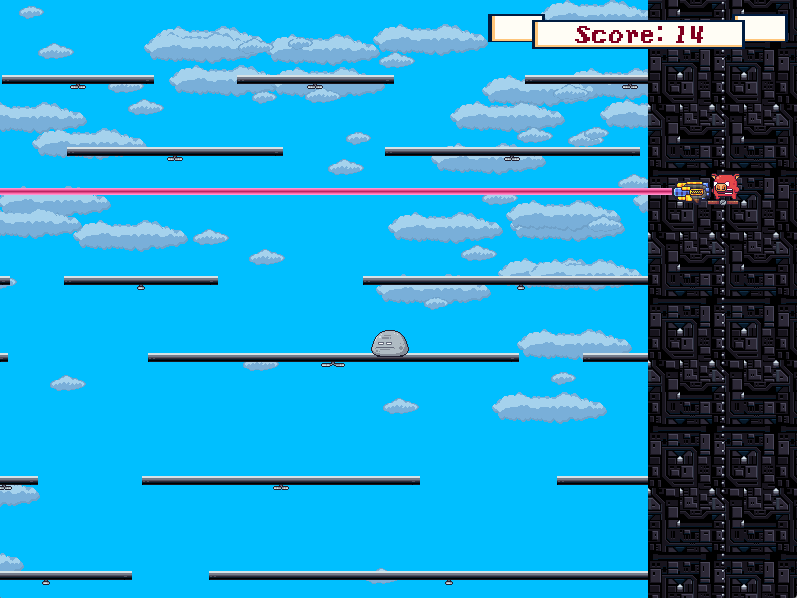
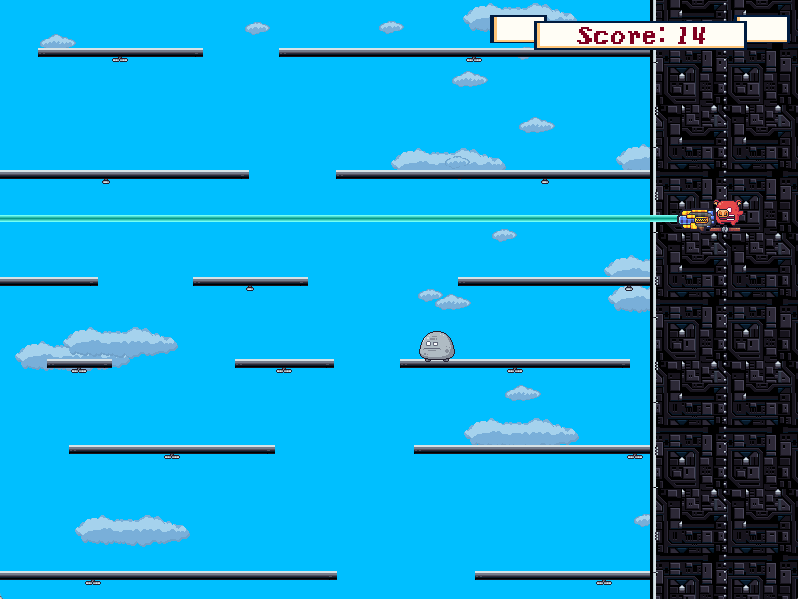
Added a border-out; added build number

diff --git a/src/main/python/game/sprites/Border.py b/src/main/python/game/sprites/Border.py
@@ -36,10 +36,14 @@ class Border(pygame.sprite.Sprite):
         self.camera_borders = self.game_data.game_config.get('camera.borders')
         self.border_color = self.game_data.game_config.get('border.color')
         self.border_size = self.game_data.game_config.get('level.border.img.size')
+        self.border_out_size = self.game_data.game_config.get('level.border.out.img.size')
 
         self.spritesheet_border = Spritesheet(self.game_data.sprite_cache, 'level.border', self.border_size, 1, generate_sides=False)
+        self.spritesheet_border_out = Spritesheet(self.game_data.sprite_cache, 'level.border.out', self.border_out_size, 1, generate_sides=True)
 
         self.image_border = None
+        self.image_border_left = None
+        self.image_border_right = None
 
         self._init()
 
@@ -48,6 +52,8 @@ class Border(pygame.sprite.Sprite):
         logging.debug("Initializing the border")
 
         self.image_border = self.spritesheet_border.images_left[0]
+        self.image_border_left = self.spritesheet_border_out.images_left[0]
+        self.image_border_right = self.spritesheet_border_out.images_right[0]
 
     def draw(self, offset):
         """Draws the border
@@ -67,6 +73,7 @@ class Border(pygame.sprite.Sprite):
                 ),
                 width=0
             )
+
             startpoint_y = 0
             while (startpoint_y + self.image_border.get_height()) <= offset.y:
                 startpoint_y += self.image_border.get_height()
@@ -85,6 +92,21 @@ class Border(pygame.sprite.Sprite):
                     curr_x -= self.image_border.get_width()
                 curr_y += self.image_border.get_height()
 
+            startpoint_y = 0
+            while (startpoint_y + self.image_border_left.get_height()) <= offset.y:
+                startpoint_y += self.image_border_left.get_height()
+            curr_y = startpoint_y - offset.y
+            for i in range(int(self.screen_size[1] / self.image_border_left.get_height()) + 2):
+                self.screen.blit(self.image_border_left,
+                    pygame.Rect(
+                        self.offset_max_left + self.camera_borders['left'] - self.image_border_left.get_width() - offset.x,
+                        curr_y,
+                        self.image_border_left.get_width(),
+                        self.image_border_left.get_height()
+                    )
+                )
+                curr_y += self.image_border_left.get_height()
+
         if abs(self.screen_size[0] + self.offset_max_right - self.camera_borders['right'] - offset.x) < (self.screen_size[0] + self.camera_borders['left'] - self.camera_borders['right']):
             # Right border
             pygame.draw.rect(
@@ -98,6 +120,7 @@ class Border(pygame.sprite.Sprite):
                 ),
                 width=0
             )
+
             startpoint_y = 0
             while (startpoint_y + self.image_border.get_height()) <= offset.y:
                 startpoint_y += self.image_border.get_height()
@@ -115,3 +138,18 @@ class Border(pygame.sprite.Sprite):
                     )
                     curr_x += self.image_border.get_width()
                 curr_y += self.image_border.get_height()
+
+            startpoint_y = 0
+            while (startpoint_y + self.image_border_right.get_height()) <= offset.y:
+                startpoint_y += self.image_border_right.get_height()
+            curr_y = startpoint_y - offset.y
+            for i in range(int(self.screen_size[1] / self.image_border_right.get_height()) + 2):
+                self.screen.blit(self.image_border_right,
+                    pygame.Rect(
+                        self.screen_size[0] + self.offset_max_right - self.camera_borders['right'] - offset.x,
+                        curr_y,
+                        self.image_border_right.get_width(),
+                        self.image_border_right.get_height()
+                    )
+                )
+                curr_y += self.image_border_right.get_height()

diff --git a/src/main/python/game/scenes/MenuScene.py b/src/main/python/game/scenes/MenuScene.py
@@ -42,6 +42,7 @@ class MenuScene(Scene):
         self.font_xl = self.game_data.font_cache.get('main.xl')
         self.font_l = self.game_data.font_cache.get('main.l')
         self.font_s = self.game_data.font_cache.get('main.s')
+        self.font_xs = self.game_data.font_cache.get('main.xs')
         self.text_color_logo = self.game_data.game_config.get('text.color.logo')
         self.text_color = self.game_data.game_config.get('text.color')
         self.text_color_inactive = self.game_data.game_config.get('text.color.inactive')
@@ -107,17 +108,17 @@ class MenuScene(Scene):
         # Version
         width = 500
         height = 60
-        rect = (self.screen_mid[0] - width / 2, height + 40, width, height)
+        rect = (self.screen_mid[0] - width / 2, height + 60, width, height)
         item_version = MenuItem(
                                     self.game_data,
-                                    self.font_s,
+                                    self.font_xs,
                                     rect,
-                                    (self.screen_mid[0], self.screen_size[1] - height * 2 + 20),
+                                    (self.screen_mid[0], self.screen_size[1] - height * 2 + 30),
                                     width=width,
                                     height=height,
                                     color=self.text_color_inactive,
                                     rect_width=-1,
-                                    text=translate('game.version').format(app_conf_get('version'))
+                                    text=translate('game.version').format(app_conf_get('version'), app_conf_get('build'))
                                 )
         self.items.append(item_version)
 

diff --git a/src/main/python/game/Camera.py b/src/main/python/game/Camera.py
@@ -82,11 +82,12 @@ class Camera():
             self.screen_size[1] - self.camera_borders['top']- self.camera_borders['bottom']
         )
 
+        self.music_volume = 0
+
         self.velocity_player = [0, 0]
         self.velocity_barrier = 0
 
         self.game_data.score = 0
-
         width_score = 300
         height_score = 50
         rect = (self.screen_size[0] - width_score - 10, 10, width_score, height_score)
@@ -267,14 +268,17 @@ class Camera():
 
         # Check game over
         if self.barrier.is_visible(self.offset):
-            self.game_data.sound_cache.set_music_volume(self.music_volume_bg_game_barriervisible)
+            if self.music_volume != self.music_volume_bg_game_barriervisible:
+                self.music_volume = self.music_volume_bg_game_barriervisible
+                self.game_data.sound_cache.set_music_volume(self.music_volume)
             if self.barrier.collides_with(self.player, self.offset):
                 logging.info('Player collided with barrier')
                 self.game_data.sound_cache.play('game.over', volume=self.music_volume_bg_game_effects)
                 self.stop()
                 self.game_data.sound_cache.set_music_volume(self.music_volume_bg_game)
                 return True
-        else:
+        elif self.music_volume != self.music_volume_bg_game:
+            self.music_volume = self.music_volume_bg_game
             self.game_data.sound_cache.set_music_volume(self.music_volume_bg_game)
 
         # Slide move

diff --git a/src/main/python/lib/GameConfig.py b/src/main/python/lib/GameConfig.py
@@ -128,7 +128,7 @@ class GameConfig():
         'player.speed.fallingfactor.increase.8': 0.8,
         'highscore.entries.max': 100,
         # Not in the public config
-        'debug.config.ignore': True,
+        'debug.config.ignore': False,
         'screen.size': (800, 600),
         'menu.music': ['bg-0.wav', 'bg-1.wav'],
         'game.music': ['game-0.wav', 'game-1.wav', 'game-2.wav', 'game-3.wav'],
@@ -138,6 +138,7 @@ class GameConfig():
         'font.main.name': 'yoster.ttf',
         'app.icon.size': (32, 32),
         'level.border.img.size': (64, 128),
+        'level.border.out.img.size': (8, 85),
         'background.startpoint.bg.clouds.big': (0, 208),
         'background.size.bg.clouds.big': (115, 32),
         'background.startpoint.bg.clouds.mid': (272, 215),
@@ -148,7 +149,7 @@ class GameConfig():
         'barrier.platform.size': (32, 8),
         'barrier.cannon.size': (39, 25),
         'barrier.cannon.left.correction': (0, -1),
-        'barrier.cannon.right.correction': (-8, -1),
+        'barrier.cannon.right.correction': (-5, -1),
         'barrier.laser.correction': (3, 3),
         'barrier.laserbeam.size': (20, 9),
         'barrier.holder.left.size': (36, 30),

diff --git a/src/main/python/game/scenes/LoadingScene.py b/src/main/python/game/scenes/LoadingScene.py
@@ -143,6 +143,7 @@ class LoadingScene(Scene):
         self.game_data.sprite_cache.get_or_load('level.segment', 'segment.png', 'sprites')
         self.game_data.sprite_cache.get_or_load('level.segment.propeller', 'propeller.png', 'sprites')
         self.game_data.sprite_cache.get_or_load('level.border', 'border.png', 'sprites')
+        self.game_data.sprite_cache.get_or_load('level.border.out', 'border-out.png', 'sprites')
         self.game_data.sprite_cache.get_or_load('button.active', 'button-active.png', 'items')
         self.game_data.sprite_cache.get_or_load('button.inactive', 'button-inactive.png', 'items')
         self.game_data.sprite_cache.get_or_load('highscore', 'highscore.png', 'items')

diff --git a/src/main/python/i18n/Translations.py b/src/main/python/i18n/Translations.py
@@ -12,7 +12,7 @@ import logging
 
 _translations = {
     'game.name': 'Falldown',
-    'game.version': 'Version {}',
+    'game.version': 'Version {} Build {}',
     'game.by': 'A game by {}',
     'scene.pause.score': 'Score: {}',
     'scene.game.fps': 'FPS: {}',

diff --git a/src/main/python/lib/AppConfig.py b/src/main/python/lib/AppConfig.py
@@ -16,7 +16,7 @@ import tempfile
 _app_config = {
     'author': 'Denis Meyer',
     'version': '1.1',
-    'build': '1',
+    'build': '2023-03-05-1',
     'copyright': '© 2023 Denis Meyer',
     'conf.game.folder': 'falldown',
     'conf.game.name': 'conf.json',

diff --git a/src/main/python/lib/SpriteCache.py b/src/main/python/lib/SpriteCache.py
@@ -46,6 +46,7 @@ class SpriteCache():
         'level.segment': None,
         'level.segment.propeller': None,
         'level.border': None,
+        'level.border.out': None,
         'banner': None,
         'button.none': None,
         'button.active': None,
